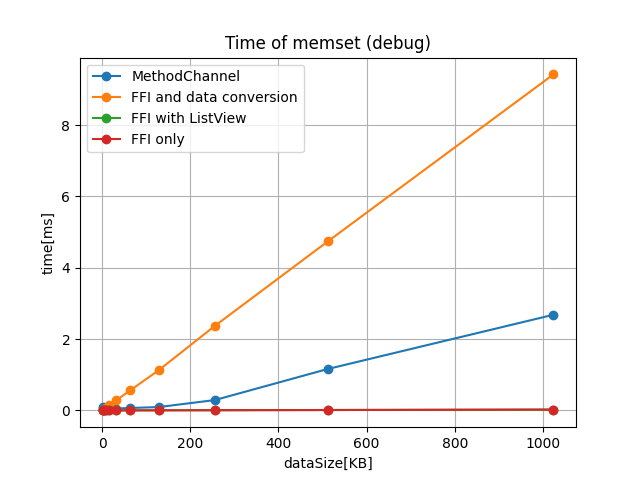
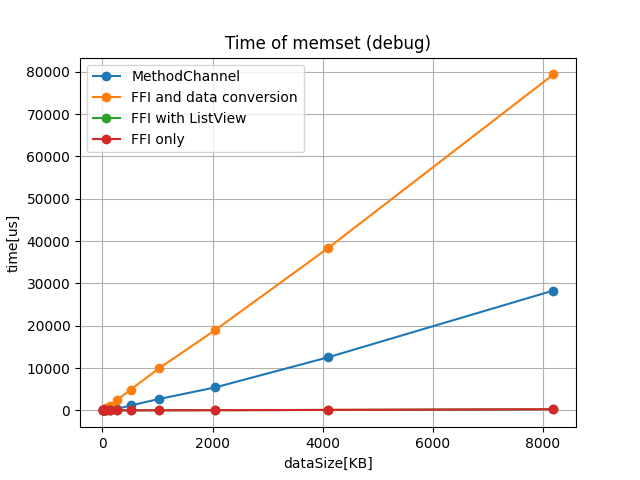
Update measurement results.

diff --git a/lib/main.dart b/lib/main.dart
@@ -147,7 +147,7 @@ class _MyHomePageState extends State<MyHomePage> {
         .asFunction<Memset>();
 
     print("type,dataSize[KB],time[ns]");
-    for (var kb = 1; kb <= 1024; kb *= 2) {
+    for (var kb = 1; kb <= 8192; kb *= 2) {
       _measureFfiMemset(kb);
       _measureFfiMemsetWithListView(kb);
       _measureFfiMemsetAndConvert(kb);

diff --git a/tool/draw_graph.py b/tool/draw_graph.py
@@ -6,20 +6,22 @@ df = pd.read_csv(sys.argv[1], encoding='UTF8')
 
 fig = plt.figure()
 ax = plt.gca()
-# ax.set_xscale('log')
-# ax.set_yscale('log')
+
+if sys.argv[4] == 'log':
+  ax.set_xscale('log')
+  ax.set_yscale('log')
 
 for label in [('MethodChannelMemset', 'MethodChannel'), \
   ('ffiMemsetAndConvert', 'FFI and data conversion'), ('ffiMemsetWithListView', 'FFI with ListView'), ('ffiMemset', 'FFI only')]:
   series = df[df['type'] == label[0]]
   print(series)
   data_kb = series['dataSize[KB]']
-  time_ms = series['time[ns]'] / 1000000
-  ax.plot(data_kb, time_ms, label=label[1], marker='o')
+  time_us = series['time[ns]'] / 1000
+  ax.plot(data_kb, time_us, label=label[1], marker='o')
 
 ax.set_title('Time of memset ' + sys.argv[3])
 ax.set_xlabel('dataSize[KB]')
-ax.set_ylabel('time[ms]')
+ax.set_ylabel('time[us]')
 plt.legend()
 plt.grid(which='both')
 fig.savefig(sys.argv[2])
